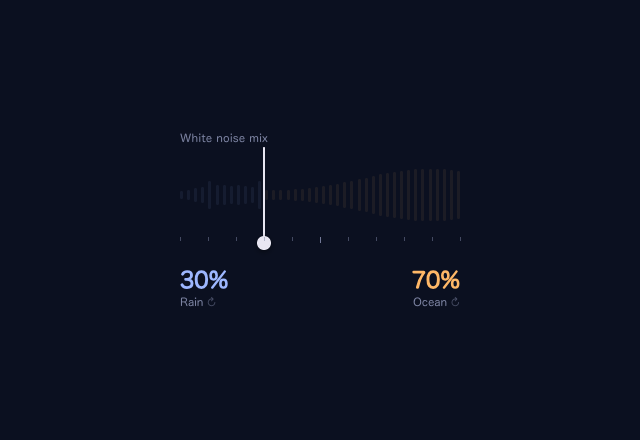
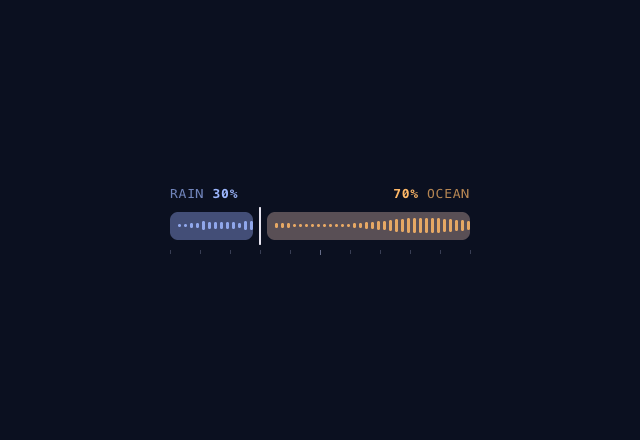
Week 04: white noise mix restyled as a split bar with a thin divider
Claude-Session: https://claude.ai/code/session_013PaiRT9mB3em9jBr45ZJeZ

diff --git a/week-04/week-04-sleep-noise.html b/week-04/week-04-sleep-noise.html
@@ -7,98 +7,93 @@
   <link rel="icon" href="../shared/favicon.svg" type="image/svg+xml" />
   <link rel="stylesheet" href="week-04-sleep.css?v=1" />
   <style>
-  /* White noise slider, stepped. Two sounds share one sound bar. A divider splits the bar between them:
-     slide it and one sound takes more of the bar and plays louder while the other gives way, in steps of ten,
-     so 30% rain is 70% ocean. Tap a sound's name to swap it for another. */
+  /* White noise slider, stepped. Two sounds share one bar, split by a thin divider with a gap either side.
+     Slide the divider and one sound's part of the bar grows while the other's gives way, in steps of ten:
+     30% rain is 70% ocean. Each part carries its sound, moving inside it. Tap a name to swap the sound. */
   :root {
-    --w: 280px;
-    --wave-h: 76px; --bars: 40; --bar-w: 3px; --bar-r: 1.5px; --bar-min: 3px;
-    --divider-w: 2px; --divider-over: 10px; --grip: 14px;
-    --tick: 4px; --steps: 10;
+    --w: 300px;
+    --bar-h: 28px; --bar-r: 8px; --gap: 14px;
+    --divider-w: 2px; --divider-h: 38px; --divider-held: 3px;
+    --wave-bars: 3px; --wave-gap: 3px;
     --a: #9db7ff; --b: #ffb867;               /* the left sound and the right sound */
-    --pct-size: 22px; --pct-line: 26px;
+    --off: #2a3150;                           /* a part's resting fill */
+    --type-size: 13px; --type-line: 16px; --type-track: .06em;
   }
-  .mix { width: var(--w); display: grid; gap: 12px; }
-  .top { display: flex; justify-content: space-between; align-items: baseline; }
-  .wave { position: relative; height: var(--wave-h); cursor: ew-resize; touch-action: none; }
-  .bars { position: absolute; inset: 0; display: flex; align-items: center; justify-content: space-between; pointer-events: none; }
-  .bars i { width: var(--bar-w); min-height: var(--bar-min); border-radius: var(--bar-r); transition: background .2s, opacity .2s; }
-  /* the divider: a line through the bar with a grip under it */
-  .divider { position: absolute; top: calc(var(--divider-over) * -1); bottom: calc(var(--divider-over) * -1); width: var(--divider-w); margin-left: calc(var(--divider-w) / -2); background: var(--ink); border-radius: 1px; pointer-events: none; transition: left .22s var(--ease-out), box-shadow .15s; }
-  .divider::after { content: ""; position: absolute; left: 50%; bottom: calc(var(--grip) / -2); width: var(--grip); height: var(--grip); margin-left: calc(var(--grip) / -2); border-radius: 50%; background: var(--ink); box-shadow: 0 2px 6px rgba(0,0,0,.5); transition: transform .15s, background .15s; }
-  .ghost { position: absolute; top: calc(var(--divider-over) * -1); bottom: calc(var(--divider-over) * -1); width: 0; border-left: 1px dashed rgba(232,230,242,.6); opacity: 0; transition: opacity .12s; pointer-events: none; }
-  .wave.is-hover .ghost { opacity: 1; }
-  .wave.is-hover .divider::after { transform: scale(1.12); }
-  .wave.is-pressed .divider, .wave.is-dragging .divider { box-shadow: 0 0 12px rgba(232,230,242,.55); }
-  .wave.is-pressed .divider::after { transform: scale(.85); }
-  .wave.is-dragging .divider { transition: box-shadow .15s; }
-  .wave.is-dragging .divider::after { transform: scale(1.25); }
-  .ticks { position: relative; height: 6px; margin-top: 4px; }
-  .ticks i { position: absolute; top: 0; width: 1px; height: var(--tick); background: var(--mute); opacity: .5; }
-  .ticks i.mid { height: 6px; opacity: .9; }
-  /* the two sounds, one at each end */
-  .ends { display: flex; justify-content: space-between; align-items: flex-end; }
-  .end { all: unset; cursor: pointer; display: grid; gap: 2px; }
-  .end.b { text-align: right; justify-items: end; }
-  .end b { font: 600 var(--pct-size)/var(--pct-line) var(--round); font-variant-numeric: tabular-nums; transition: color .15s; }
-  .end span { font: 500 var(--label-size)/var(--label-line) var(--round); color: var(--mute); }
-  .end span::after { content: " ↻"; opacity: .5; }
-  .end:hover span, .end:focus-visible span { color: var(--ink); }
-  .end.a b { color: var(--a); } .end.b b { color: var(--b); }
-  .end small { display: block; height: 10px; font: 500 9px/10px var(--mono); color: var(--mute); opacity: 0; transition: opacity .12s; }
-  .mix.is-peek .end small { opacity: 1; }
+  .mix { width: var(--w); display: grid; gap: 10px; }
+  .labels { display: flex; justify-content: space-between; align-items: baseline; font: 500 var(--type-size)/var(--type-line) var(--mono); letter-spacing: var(--type-track); text-transform: uppercase; }
+  .side { all: unset; cursor: pointer; display: flex; gap: 8px; align-items: baseline; }
+  .side .name { transition: opacity .15s; }
+  .side.a .name { color: var(--a); opacity: .7; } .side.b .name { color: var(--b); opacity: .7; }
+  .side:hover .name, .side:focus-visible .name { opacity: 1; text-decoration: underline; text-underline-offset: 3px; }
+  .side .pct { font-weight: 700; font-variant-numeric: tabular-nums; }
+  .side.a .pct { color: var(--a); } .side.b .pct { color: var(--b); }
+  .side .pre { color: var(--mute); font-weight: 500; opacity: 0; transition: opacity .12s; }
+  .mix.is-peek .side .pre { opacity: 1; }
+  .bar { position: relative; height: var(--bar-h); cursor: ew-resize; touch-action: none; }
+  .part { position: absolute; top: 0; height: 100%; border-radius: var(--bar-r); overflow: hidden; display: flex; align-items: center; gap: var(--wave-gap); padding-left: 8px; transition: left .22s var(--ease-out), width .22s var(--ease-out), opacity .15s; }
+  .part.a { left: 0; background: color-mix(in srgb, var(--a) 22%, var(--off)); }
+  .part.b { background: color-mix(in srgb, var(--b) 22%, var(--off)); }
+  .part i { flex: none; width: var(--wave-bars); border-radius: 1.5px; opacity: .85; }
+  .part.a i { background: var(--a); } .part.b i { background: var(--b); }
+  .divider { position: absolute; top: 50%; width: var(--divider-w); height: var(--divider-h); margin: calc(var(--divider-h) / -2) 0 0 calc(var(--divider-w) / -2); border-radius: 2px; background: var(--ink); pointer-events: none; transition: left .22s var(--ease-out), width .15s, margin .15s, box-shadow .15s, height .15s; }
+  .ghost { position: absolute; top: 50%; height: var(--divider-h); margin-top: calc(var(--divider-h) / -2); width: 0; border-left: 1px dashed rgba(232,230,242,.55); opacity: 0; transition: opacity .12s; pointer-events: none; }
+  .bar.is-hover .ghost { opacity: 1; }
+  .bar.is-hover .divider { box-shadow: 0 0 0 4px rgba(232,230,242,.08); }
+  .bar.is-pressed .divider, .bar.is-dragging .divider { width: var(--divider-held); margin-left: calc(var(--divider-held) / -2); box-shadow: 0 0 12px rgba(232,230,242,.6); }
+  .bar.is-pressed .divider { height: calc(var(--divider-h) - 6px); margin-top: calc((var(--divider-h) - 6px) / -2); }
+  .bar.is-dragging .part, .bar.is-dragging .divider { transition: width .15s, margin .15s, box-shadow .15s, height .15s; }
+  .ticks { position: relative; height: 5px; }
+  .ticks i { position: absolute; top: 0; width: 1px; height: 4px; background: var(--mute); opacity: .4; }
+  .ticks i.mid { height: 5px; opacity: .8; }
   </style>
 </head>
 <body>
   <main class="stage">
     <section class="mix" aria-label="White noise mix">
-      <div class="top"><p class="label" style="margin:0">White noise mix</p></div>
-      <div>
-        <div class="wave" role="slider" tabindex="0" aria-label="Balance between the two sounds"><div class="bars"></div><div class="ghost"></div><div class="divider"></div></div>
-        <div class="ticks"></div>
+      <div class="labels">
+        <button class="side a" type="button" aria-label="Change the left sound"><span class="name"></span><span class="pct"></span><span class="pre"></span></button>
+        <button class="side b" type="button" aria-label="Change the right sound"><span class="pre"></span><span class="pct"></span><span class="name"></span></button>
       </div>
-      <div class="ends">
-        <button class="end a" type="button" aria-label="Change the left sound"><small></small><b></b><span></span></button>
-        <button class="end b" type="button" aria-label="Change the right sound"><small></small><b></b><span></span></button>
-      </div>
+      <div class="bar" role="slider" tabindex="0" aria-label="Balance between the two sounds"><div class="part a"></div><div class="part b"></div><div class="ghost"></div><div class="divider"></div></div>
+      <div class="ticks"></div>
     </section>
   </main>
 
   <section class="spec" aria-labelledby="spec-title">
     <h2 id="spec-title">Spec</h2>
-    <p>Read from the CSS this page runs on. Stepped, in tens: two sounds share one sound bar, and a divider sets how much of it each one gets. Left of the divider the bar takes the first sound's shape and colour, right of it the second's; the larger share also plays louder, so its bars stand taller. Both shares read below the bar, always on screen, and add up to 100. Tap a sound's name to swap in another: rain, ocean, wind, forest or brown noise.</p>
+    <p>Read from the CSS this page runs on. Stepped, in tens: two sounds share one bar, split by a thin divider with a gap either side. Each part is that sound's share of the bar and carries the sound itself, its bars moving inside it, louder the bigger the share. Both shares read above the bar, always on screen, and add up to 100. Tap a sound's name to swap in another: rain, ocean, wind, forest or brown noise.</p>
 
     <h3>Bar and divider</h3>
     <table>
-      <tr><td>Sound bar</td><td data-var="--w,--wave-h" data-join=" × " data-after=", the hit area"></td></tr>
-      <tr><td>Bars</td><td data-var="--bars" data-after=" bars, 3px wide, 1.5px corner, 3px at least"></td></tr>
-      <tr><td>Steps</td><td data-var="--steps" data-after=" of 10%, eleven stops; ticks under the bar, the middle one longer"></td></tr>
-      <tr><td>Divider</td><td data-var="--divider-w" data-after=" line, reaching 10px past the bar top and bottom"></td></tr>
-      <tr><td>Grip</td><td data-var="--grip" data-after=" circle at the divider's foot"></td></tr>
-      <tr><td>Bar height</td><td>Each side's own sound shape, scaled from 35% at a 0 share to full at 100</td></tr>
+      <tr><td>Bar</td><td data-var="--w,--bar-h" data-join=" × " data-after=", the hit area"></td></tr>
+      <tr><td>Part corner</td><td data-var="--bar-r"></td></tr>
+      <tr><td>Gap at the divider</td><td data-var="--gap" data-after=", half each side"></td></tr>
+      <tr><td>Divider</td><td data-var="--divider-w,--divider-h" data-join=" × " data-after="; 3px wide while held"></td></tr>
+      <tr><td>Sound inside a part</td><td data-var="--wave-bars" data-after=" bars, 3px apart, up to 70% of the bar's height, scaled by the share"></td></tr>
+      <tr><td>Steps</td><td>Eleven stops, 0 to 100 in tens; ticks under the bar, the middle one longer</td></tr>
       <tr><td>Settle</td><td>0.22s, ease out, to the nearest ten</td></tr>
     </table>
 
     <h3>Type</h3>
     <table>
-      <tr><td>Shares</td><td data-var="--pct-size,--pct-line" data-after=", rounded 600, in each sound's colour, at the bar's two ends"></td></tr>
-      <tr><td>Sound names</td><td data-var="--label-size,--label-line" data-after=", rounded 500, with a swap mark; tap to change the sound"></td></tr>
-      <tr><td>Hover preview</td><td>Mono 500 9px above each share: what it would become</td></tr>
+      <tr><td>Names and shares</td><td data-var="--type-size,--type-line" data-after=", mono, uppercase, 0.06em tracking; names 500 at 70%, shares 700, each in its sound's colour; 8px apart"></td></tr>
+      <tr><td>Placement</td><td>Above the bar, 10px: the left sound's name then share at the left end, the right sound's share then name at the right end</td></tr>
+      <tr><td>Hover preview</td><td>Beside each share in mute: what it would become, “→ 60%”</td></tr>
     </table>
 
     <h3>Colour</h3>
     <table>
       <tr><td>Left sound</td><td data-var="--a" data-kind="color"></td></tr>
       <tr><td>Right sound</td><td data-var="--b" data-kind="color"></td></tr>
-      <tr><td>Divider, grip</td><td data-var="--ink" data-kind="color"></td></tr>
-      <tr><td>Page</td><td data-var="--night" data-kind="color"></td></tr>
+      <tr><td>Part fill</td><td>Its sound's colour at 22% over <span class="swatch" style="background:#2a3150"></span>#2a3150</td></tr>
+      <tr><td>Divider</td><td data-var="--ink" data-kind="color"></td></tr>
     </table>
 
     <h3>States</h3>
     <table>
-      <tr><td>Hover</td><td>The grip grows 1.12; a dashed line marks the stop under the pointer and both shares preview what they would become, “→ 60%”. The mix stays</td></tr>
-      <tr><td>Pressed</td><td>The divider glows and the grip dips to 0.85; a tap moves the divider to the stop under the finger</td></tr>
-      <tr><td>Drag</td><td>The divider follows the finger, snapping ten by ten; the bars on each side re-shape and the shares count with it, the grip grown 1.25</td></tr>
+      <tr><td>Hover</td><td>A soft ring round the divider; a dashed line marks the stop under the pointer and both shares preview what they would become. The mix stays</td></tr>
+      <tr><td>Pressed</td><td>The divider thickens to 3px, shortens 6px and glows; a tap moves it to the stop under the finger</td></tr>
+      <tr><td>Drag</td><td>The divider follows the finger ten by ten; the two parts trade width, their sounds grow and shrink, and the shares count with it</td></tr>
       <tr><td>Keyboard</td><td>Left and Right ten; Home and End all one sound or all the other</td></tr>
     </table>
   </section>
@@ -106,68 +101,73 @@
   <a class="back-pill" href="week-04.html" hidden>&larr; Week 04</a>
 
   <script>
+  function hash(a, b) { const s = Math.sin(a * 12.9898 + b * 78.233) * 43758.5453; return s - Math.floor(s); }
   const SOUNDS = {
-    Rain:   (i, x, t) => .2 + .55 * hash(i, Math.floor(t * 12)) * (.7 + .3 * hash(i, 3)),
-    Ocean:  (i, x, t) => .16 + .7 * Math.pow(.5 + .5 * Math.sin(x * 5 - t * .9), 1.6),
-    Wind:   (i, x, t) => .25 + .35 * (.5 + .5 * Math.sin(x * 2.2 + t * 1.7)) * (.8 + .2 * Math.sin(t * 7 + i)),
-    Forest: (i, x, t) => { const bird = (t % 2.6) < .7 ? Math.exp(-Math.pow((x % .5 - .3) / .04, 2)) * (.45 + .25 * Math.sin(t * 40)) : 0; return .14 + .1 * hash(i, Math.floor(t * 3)) + bird; },
-    'Brown noise': (i, x, t) => .2 + .5 * (.85 + .15 * Math.sin(t * 1.4 + x * 2.5)) * (.7 + .3 * hash(i, 9)),
+    Rain:   (i, x, t) => .25 + .6 * hash(i, Math.floor(t * 12)),
+    Ocean:  (i, x, t) => .2 + .75 * Math.pow(.5 + .5 * Math.sin(x * 9 - t * .9), 1.6),
+    Wind:   (i, x, t) => .3 + .45 * (.5 + .5 * Math.sin(x * 4 + t * 1.7)) * (.8 + .2 * Math.sin(t * 7 + i)),
+    Forest: (i, x, t) => { const bird = (t % 2.6) < .7 && i % 9 === 4 ? .5 + .3 * Math.sin(t * 40) : 0; return .18 + .12 * hash(i, Math.floor(t * 3)) + bird; },
+    'Brown noise': (i, x, t) => .3 + .5 * (.85 + .15 * Math.sin(t * 1.4 + x * 2.5)) * (.7 + .3 * hash(i, 9)),
   };
   const NAMES = Object.keys(SOUNDS);
-  function hash(a, b) { const s = Math.sin(a * 12.9898 + b * 78.233) * 43758.5453; return s - Math.floor(s); }
-
-  const wave = document.querySelector('.wave'), divider = wave.querySelector('.divider'), ghost = wave.querySelector('.ghost'), mix = document.querySelector('.mix');
-  const css = getComputedStyle(document.documentElement), N = parseFloat(css.getPropertyValue('--bars')), H = parseFloat(css.getPropertyValue('--wave-h'));
-  const bars = Array.from({ length: N }, () => { const b = document.createElement('i'); wave.querySelector('.bars').append(b); return b; });
+  const css = getComputedStyle(document.documentElement), GAP = parseFloat(css.getPropertyValue('--gap')), BH = parseFloat(css.getPropertyValue('--bar-h'));
+  const bar = document.querySelector('.bar'), partA = bar.querySelector('.part.a'), partB = bar.querySelector('.part.b'), divider = bar.querySelector('.divider'), ghost = bar.querySelector('.ghost');
+  const mix = document.querySelector('.mix'), sideA = document.querySelector('.side.a'), sideB = document.querySelector('.side.b');
+  // fill each part with as many little sound bars as the whole bar could hold; the part's own width clips the rest
+  const fill = el => Array.from({ length: Math.floor(bar.clientWidth / 6) }, () => { const i = document.createElement('i'); el.append(i); return i; });
+  const barsA = fill(partA), barsB = fill(partB);
   document.querySelector('.ticks').innerHTML = Array.from({ length: 11 }, (_, k) => `<i class="${k === 5 ? 'mid' : ''}" style="left:${k * 10}%"></i>`).join('');
-  const endA = document.querySelector('.end.a'), endB = document.querySelector('.end.b');
 
-  let a = 'Rain', b = 'Ocean', share = 30, hv = null;     // share: the left sound's part, 0 to 100 in tens
-  function label() {
-    divider.style.left = share + '%';
-    endA.querySelector('b').textContent = share + '%'; endA.querySelector('span').textContent = a;
-    endB.querySelector('b').textContent = (100 - share) + '%'; endB.querySelector('span').textContent = b;
+  let a = 'Rain', b = 'Ocean', share = 30, hv = null;
+  const xOf = s => s / 100 * bar.clientWidth;
+  function layout() {
+    const W = bar.clientWidth, x = xOf(share);
+    // each part stops half a gap short of the divider; a part with no share disappears
+    const wa = Math.max(0, x - GAP / 2), wb = Math.max(0, W - x - GAP / 2);
+    partA.style.width = wa + 'px'; partA.style.opacity = share === 0 ? 0 : 1;
+    partB.style.left = (W - wb) + 'px'; partB.style.width = wb + 'px'; partB.style.opacity = share === 100 ? 0 : 1;
+    divider.style.left = x + 'px';
+    sideA.querySelector('.name').textContent = a; sideA.querySelector('.pct').textContent = share + '%';
+    sideB.querySelector('.name').textContent = b; sideB.querySelector('.pct').textContent = (100 - share) + '%';
     const peek = hv !== null && hv !== share && !down;
     mix.classList.toggle('is-peek', peek);
-    if (hv !== null) { ghost.style.left = hv + '%'; endA.querySelector('small').textContent = `→ ${hv}%`; endB.querySelector('small').textContent = `→ ${100 - hv}%`; }
+    if (hv !== null) { ghost.style.left = xOf(hv) + 'px'; sideA.querySelector('.pre').textContent = `→ ${hv}%`; sideB.querySelector('.pre').textContent = `${100 - hv}% ←`; }
     ghost.style.visibility = peek ? '' : 'hidden';
-    wave.setAttribute('aria-valuenow', share); wave.setAttribute('aria-valuetext', `${a} ${share} percent, ${b} ${100 - share} percent`);
+    bar.setAttribute('aria-valuenow', share); bar.setAttribute('aria-valuetext', `${a} ${share} percent, ${b} ${100 - share} percent`);
   }
   function frame(ms) {
-    const t = ms / 1000, ga = .35 + .65 * share / 100, gb = .35 + .65 * (100 - share) / 100;
-    bars.forEach((el, i) => {
-      const x = i / (N - 1), left = x * 100 < share;
-      el.style.height = Math.max(3, (left ? SOUNDS[a](i, x, t) * ga : SOUNDS[b](i, x, t + 3) * gb) * H) + 'px';
-      el.style.background = left ? 'var(--a)' : 'var(--b)';
-    });
+    const t = ms / 1000, ga = .4 + .6 * share / 100, gb = .4 + .6 * (100 - share) / 100, n = barsA.length;
+    barsA.forEach((el, i) => el.style.height = Math.max(2, SOUNDS[a](i, i / n, t) * ga * BH * .7) + 'px');
+    barsB.forEach((el, i) => el.style.height = Math.max(2, SOUNDS[b](i, i / n, t + 3) * gb * BH * .7) + 'px');
     requestAnimationFrame(frame);
   }
-  const set = n => { share = Math.max(0, Math.min(100, Math.round(n / 10) * 10)); label(); };
-  const pAt = e => { const r = wave.getBoundingClientRect(); return Math.max(0, Math.min(100, Math.round((e.clientX - r.left) / r.width * 10) * 10)); };
+  const set = n => { share = Math.max(0, Math.min(100, Math.round(n / 10) * 10)); layout(); };
+  const pAt = e => { const r = bar.getBoundingClientRect(); return Math.max(0, Math.min(100, Math.round((e.clientX - r.left) / r.width * 10) * 10)); };
 
   let hover = false, down = false, drag = false, x0 = 0;
-  const show = () => { wave.classList.toggle('is-hover', hover && !down); wave.classList.toggle('is-pressed', down && !drag); wave.classList.toggle('is-dragging', drag); label(); };
-  wave.addEventListener('pointerenter', e => { hover = true; hv = pAt(e); show(); });
-  wave.addEventListener('pointerleave', () => { hover = false; hv = null; show(); });
-  wave.addEventListener('pointerdown', e => { wave.setPointerCapture(e.pointerId); x0 = e.clientX; down = true; drag = false; show(); });
-  wave.addEventListener('pointermove', e => {
-    if (!wave.hasPointerCapture(e.pointerId)) { if (hover) { hv = pAt(e); label(); } return; }
+  const show = () => { bar.classList.toggle('is-hover', hover && !down); bar.classList.toggle('is-pressed', down && !drag); bar.classList.toggle('is-dragging', drag); layout(); };
+  bar.addEventListener('pointerenter', e => { hover = true; hv = pAt(e); show(); });
+  bar.addEventListener('pointerleave', () => { hover = false; hv = null; show(); });
+  bar.addEventListener('pointerdown', e => { bar.setPointerCapture(e.pointerId); x0 = e.clientX; down = true; drag = false; show(); });
+  bar.addEventListener('pointermove', e => {
+    if (!bar.hasPointerCapture(e.pointerId)) { if (hover) { hv = pAt(e); layout(); } return; }
     if (!drag && Math.abs(e.clientX - x0) > 3) { drag = true; show(); }
     if (drag) set(pAt(e));
   });
   const release = e => { if (!down) return; if (!drag) set(pAt(e)); down = drag = false; hv = hover ? pAt(e) : null; show(); };
-  wave.addEventListener('pointerup', release);
-  wave.addEventListener('pointercancel', release);
-  wave.setAttribute('aria-valuemin', 0); wave.setAttribute('aria-valuemax', 100);
-  wave.addEventListener('keydown', e => {
+  bar.addEventListener('pointerup', release);
+  bar.addEventListener('pointercancel', release);
+  bar.setAttribute('aria-valuemin', 0); bar.setAttribute('aria-valuemax', 100);
+  bar.addEventListener('keydown', e => {
     const m = { ArrowRight: share + 10, ArrowUp: share + 10, ArrowLeft: share - 10, ArrowDown: share - 10, Home: 0, End: 100 };
     if (e.key in m) { e.preventDefault(); set(m[e.key]); }
   });
   // tap a name to swap that sound for the next one the other side is not using
   const next = (cur, other) => { let k = NAMES.indexOf(cur); do { k = (k + 1) % NAMES.length; } while (NAMES[k] === other); return NAMES[k]; };
-  endA.addEventListener('click', () => { a = next(a, b); label(); });
-  endB.addEventListener('click', () => { b = next(b, a); label(); });
-  label(); requestAnimationFrame(frame);
+  sideA.addEventListener('click', () => { a = next(a, b); layout(); });
+  sideB.addEventListener('click', () => { b = next(b, a); layout(); });
+  addEventListener('resize', layout);
+  layout(); requestAnimationFrame(frame);
   if (window.self === window.top && !location.search.includes('thumb')) document.querySelector('.back-pill').removeAttribute('hidden');
   </script>
   <script src="week-04-spec.js?v=3"></script>

diff --git a/week-04/week-04.html b/week-04/week-04.html
@@ -589,11 +589,11 @@
               <h4>Prototypes</h4>
               <div class="proto-grid is-three">
                 <figure class="proto">
-                  <iframe src="week-04-sleep-noise.html?v=2" title="Sleep white noise, stepped slider: two sounds sharing one sound bar, a divider setting the mix" loading="lazy"></iframe>
+                  <iframe src="week-04-sleep-noise.html?v=3" title="Sleep white noise, stepped slider: two sounds sharing one sound bar, a divider setting the mix" loading="lazy"></iframe>
                   <figcaption>
                     <b>White noise, stepped</b>
-                    <span>Two sounds share one sound bar. Slide the divider and one takes more of the bar and plays louder while the other gives way, in steps of ten: 30% rain is 70% ocean. Tap a sound’s name to swap it.</span>
-                    <button type="button" class="viewer-open" data-src="week-04-sleep-noise.html?v=2">View larger</button>
+                    <span>Two sounds share one bar, split by a thin divider. Slide it and one sound’s part grows and plays louder while the other gives way, in steps of ten: RAIN 30% is 70% OCEAN. Each part carries its moving sound; tap a name to swap it.</span>
+                    <button type="button" class="viewer-open" data-src="week-04-sleep-noise.html?v=3">View larger</button>
                   </figcaption>
                 </figure>
                 <figure class="proto">
